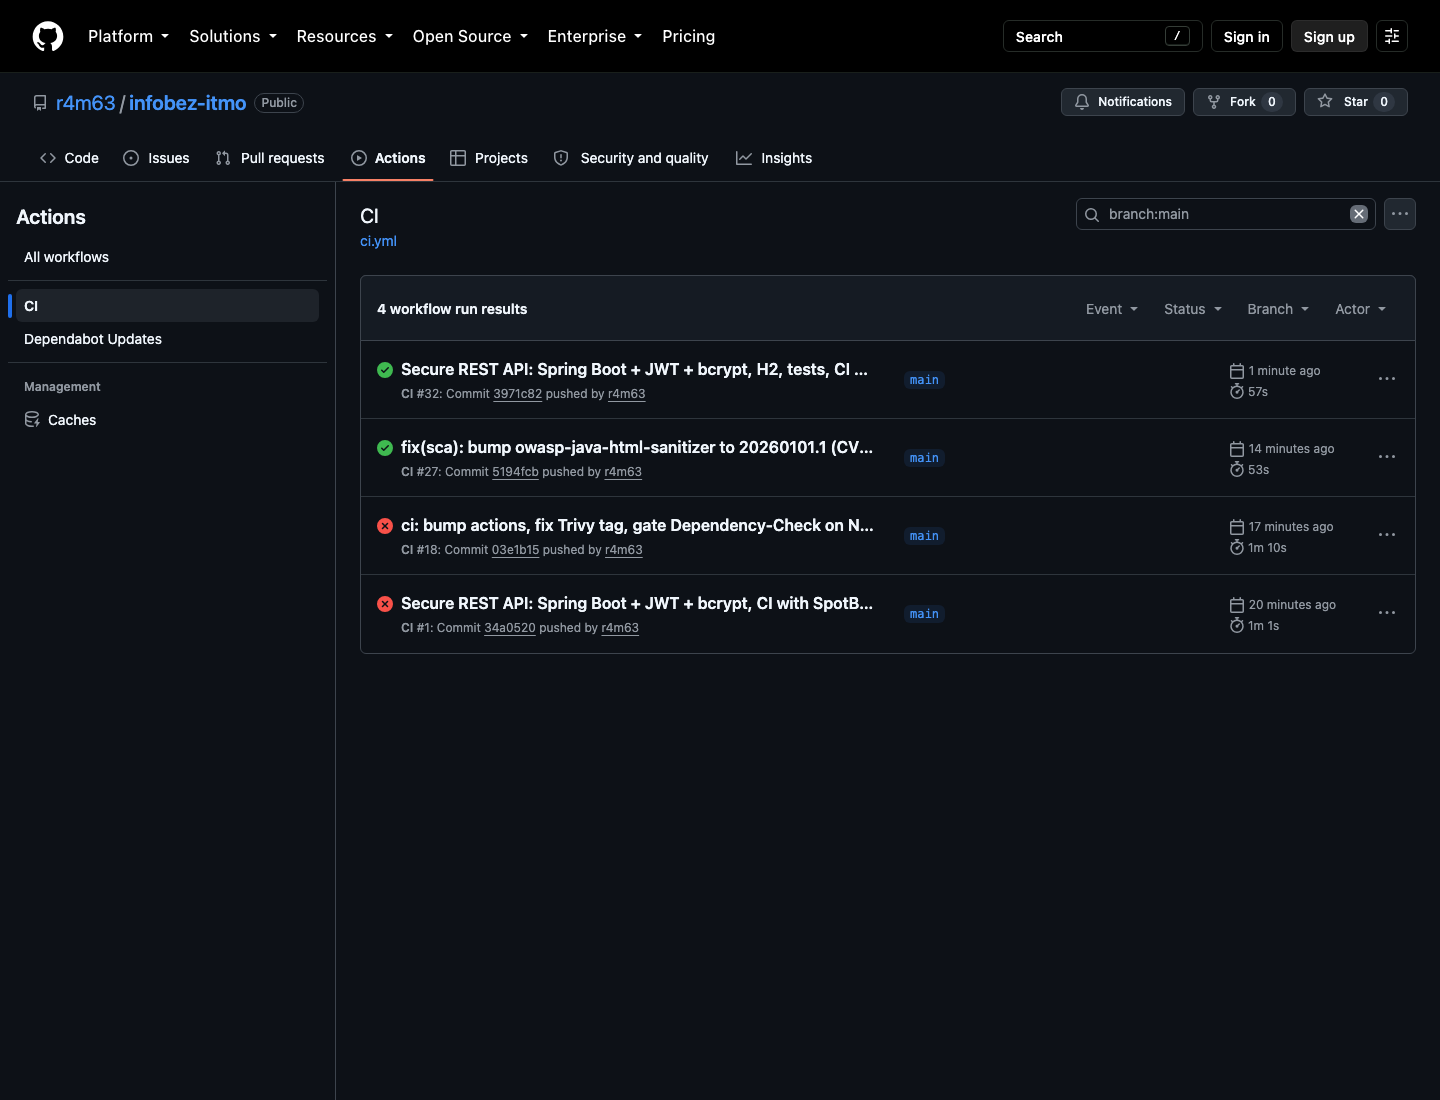
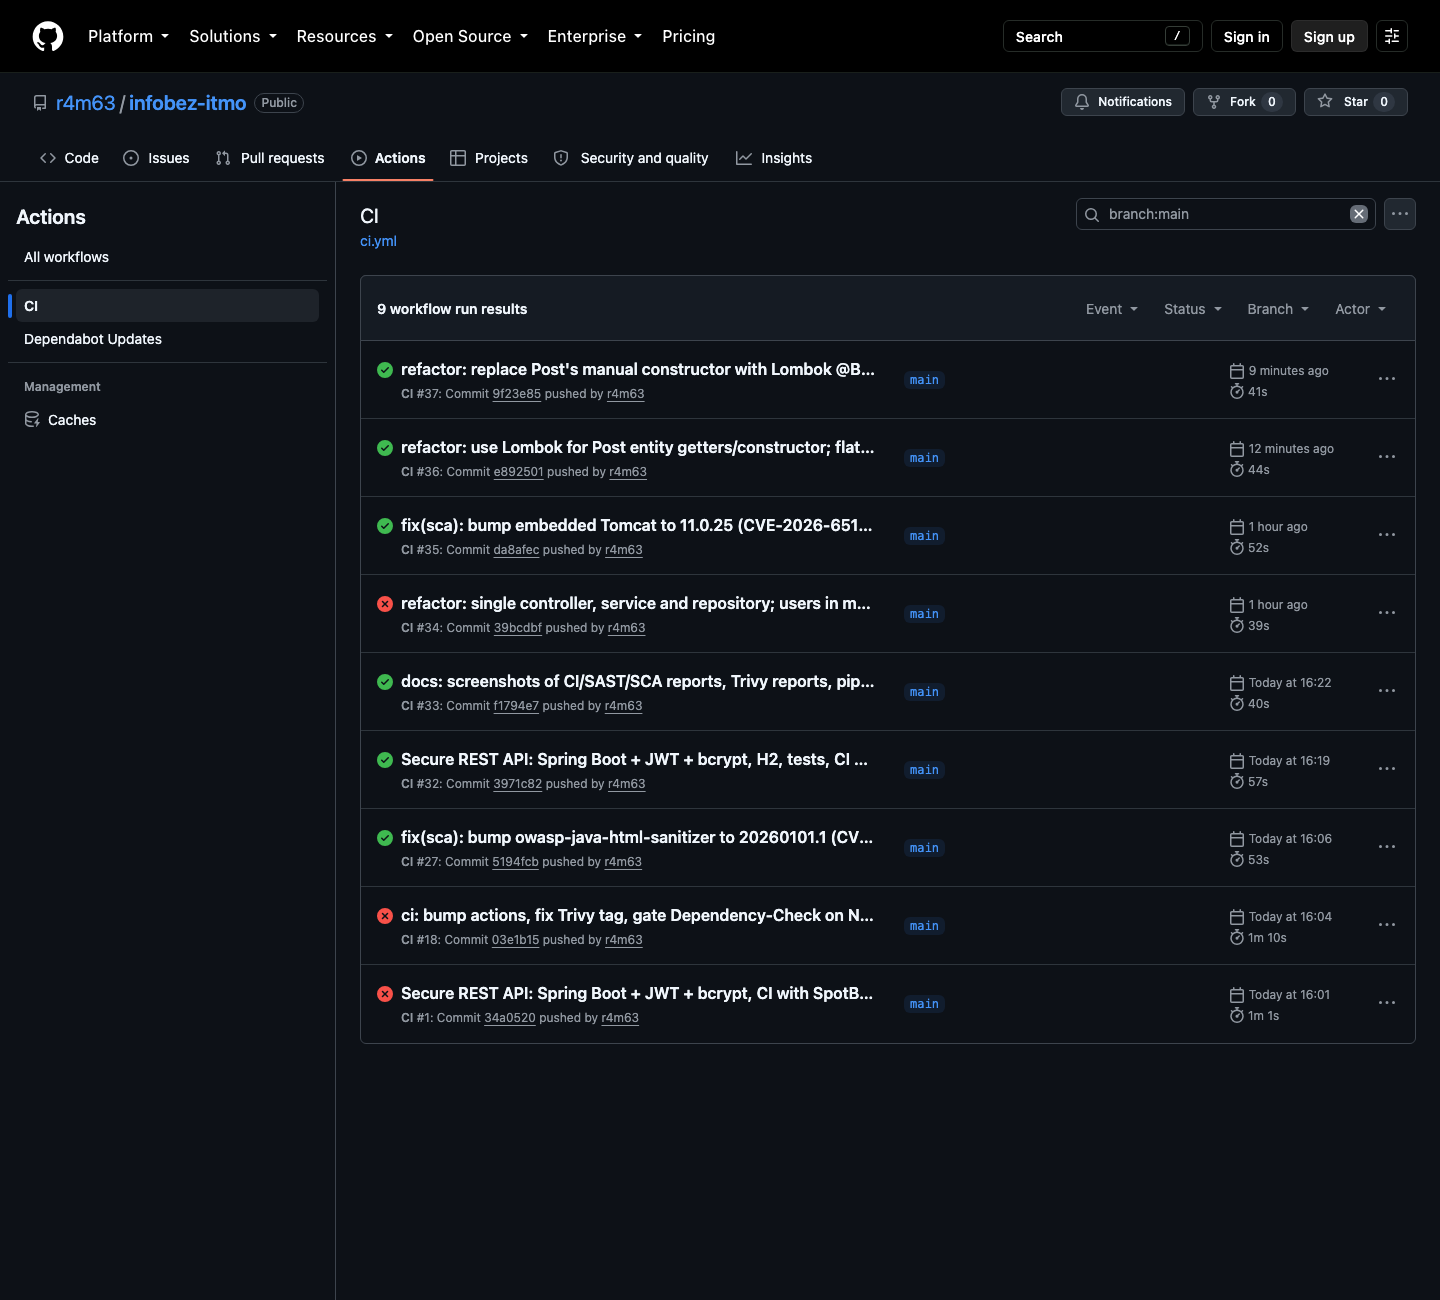
docs: refresh curl session and CI/SAST screenshots against current code

diff --git a/README.md b/README.md
@@ -5,20 +5,21 @@ bcrypt-хешированием паролей, защитой от SQL-инъе
 
 - Репозиторий: <https://github.com/r4m63/infobez-itmo>
 - Pipeline: <https://github.com/r4m63/infobez-itmo/actions/workflows/ci.yml>
-- Последний успешный запуск pipeline: <https://github.com/r4m63/infobez-itmo/actions/runs/35101196952>
-- Все успешные запуски на `main`: <https://github.com/r4m63/infobez-itmo/actions/workflows/ci.yml?query=branch%3Amain+is%3Asuccess>
+- Последний успешный запуск pipeline: <https://github.com/r4m63/infobez-itmo/actions/runs/35107799931>
+- Все успешные запуски на
+  `main`: <https://github.com/r4m63/infobez-itmo/actions/workflows/ci.yml?query=branch%3Amain+is%3Asuccess>
 
 ## Стек
 
-| Компонент | Выбор |
-|---|---|
-| Язык / фреймворк | Java 25, Spring Boot 4.1.1 (Web, Security, Data JPA, Validation) |
-| Сборка | Maven (`./mvnw`) |
-| БД | Посты — H2 in-memory через JPA/Hibernate; пользователи — массив в памяти (`InMemoryUserDetailsManager`). Docker не нужен |
-| JWT | Nimbus JOSE+JWT (`JwtEncoder`/`JwtDecoder` из Spring Security), HS256 |
-| Пароли | bcrypt, cost 12 (`BCryptPasswordEncoder`) |
-| SAST | SpotBugs + Find Security Bugs |
-| SCA | OWASP Dependency-Check, Trivy, Dependabot |
+| Компонент        | Выбор                                                                                                                    |
+|------------------|--------------------------------------------------------------------------------------------------------------------------|
+| Язык / фреймворк | Java 25, Spring Boot 4.1.1 (Web, Security, Data JPA, Validation)                                                         |
+| Сборка           | Maven (`./mvnw`)                                                                                                         |
+| БД               | Посты — H2 in-memory через JPA/Hibernate; пользователи — массив в памяти (`InMemoryUserDetailsManager`). Docker не нужен |
+| JWT              | Nimbus JOSE+JWT (`JwtEncoder`/`JwtDecoder` из Spring Security), HS256                                                    |
+| Пароли           | bcrypt, cost 12 (`BCryptPasswordEncoder`)                                                                                |
+| SAST             | SpotBugs + Find Security Bugs                                                                                            |
+| SCA              | OWASP Dependency-Check, Trivy, Dependabot                                                                                |
 
 ## Запуск
 
@@ -31,17 +32,18 @@ set -a && source .env && set +a
 При старте создаются пользователи `admin` и `user` с паролями из `DEMO_ADMIN_PASSWORD` / `DEMO_USER_PASSWORD`
 (хранятся только bcrypt-хеши). Тесты: `./mvnw verify`.
 
-Код намеренно простой: **один контроллер** ([ApiController](src/main/java/com/itmo/infobezitmo/controller/ApiController.java)),
+Код намеренно простой: **один контроллер
+** ([ApiController](src/main/java/com/itmo/infobezitmo/controller/ApiController.java)),
 **один сервис** ([ApiService](src/main/java/com/itmo/infobezitmo/service/ApiService.java)) и
 **один репозиторий** ([PostRepository](src/main/java/com/itmo/infobezitmo/repository/PostRepository.java)).
 
 ## API
 
-| Метод | Путь | Доступ | Описание |
-|---|---|---|---|
-| `POST` | `/auth/login` | публичный | Принимает `{"username","password"}`, возвращает JWT |
-| `GET` | `/api/data` | JWT | Список постов, необязательный поиск `?query=` по заголовку |
-| `POST` | `/api/posts` | JWT | Создание поста; автор берётся из токена |
+| Метод  | Путь          | Доступ    | Описание                                                   |
+|--------|---------------|-----------|------------------------------------------------------------|
+| `POST` | `/auth/login` | публичный | Принимает `{"username","password"}`, возвращает JWT        |
+| `GET`  | `/api/data`   | JWT       | Список постов, необязательный поиск `?query=` по заголовку |
+| `POST` | `/api/posts`  | JWT       | Создание поста; автор берётся из токена                    |
 
 ### Примеры (curl)
 
@@ -65,10 +67,19 @@ curl -X POST localhost:8080/api/posts \
 
 ```json
 // POST /auth/login -> 200
-{"accessToken":"eyJhbGciOiJIUzI1NiJ9...","tokenType":"Bearer","expiresIn":900}
+{
+  "accessToken": "eyJhbGciOiJIUzI1NiJ9...",
+  "tokenType": "Bearer",
+  "expiresIn": 900
+}
 // GET /api/data без токена -> 401
 // POST /auth/login с неверным паролем -> 401
-{"detail":"Invalid username or password","instance":"/auth/login","status":401,"title":"Unauthorized"}
+{
+  "detail": "Invalid username or password",
+  "instance": "/auth/login",
+  "status": 401,
+  "title": "Unauthorized"
+}
 ```
 
 Полный протокол проверки через curl (без токена, неверный пароль, логин, данные, XSS- и SQLi-нагрузки,
@@ -133,12 +144,12 @@ Spring Data JPA / Hibernate:
 Файл: [.github/workflows/ci.yml](.github/workflows/ci.yml). Запускается при каждом `push`, `pull_request`
 и вручную. Четыре независимых job:
 
-| Job | Тип | Инструмент | Что делает |
-|---|---|---|---|
-| Build & tests | — | Maven, JUnit | `./mvnw verify`: сборка и 10 интеграционных тестов безопасности |
-| SAST | SAST | SpotBugs + Find Security Bugs | Статический анализ байткода (effort Max, threshold Medium); job падает при любой находке. Отчёт `spotbugs.html` в артефактах |
-| SCA — Dependency-Check | SCA | OWASP Dependency-Check | Поиск CVE в зависимостях, `failBuildOnCVSS=7`; HTML/JSON-отчёт в артефактах. Требует секрет `NVD_API_KEY` (без него NVD API с GitHub-раннеров не отвечает, шаг пропускается с предупреждением) |
-| SCA — Trivy | SCA | Trivy | Сканирует `pom.xml` на HIGH/CRITICAL CVE, а также секреты и мисконфигурации; отчёт в артефактах и в Job Summary |
+| Job                    | Тип  | Инструмент                    | Что делает                                                                                                                                                                                     |
+|------------------------|------|-------------------------------|------------------------------------------------------------------------------------------------------------------------------------------------------------------------------------------------|
+| Build & tests          | —    | Maven, JUnit                  | `./mvnw verify`: сборка и 10 интеграционных тестов безопасности                                                                                                                                |
+| SAST                   | SAST | SpotBugs + Find Security Bugs | Статический анализ байткода (effort Max, threshold Medium); job падает при любой находке. Отчёт `spotbugs.html` в артефактах                                                                   |
+| SCA — Dependency-Check | SCA  | OWASP Dependency-Check        | Поиск CVE в зависимостях, `failBuildOnCVSS=7`; HTML/JSON-отчёт в артефактах. Требует секрет `NVD_API_KEY` (без него NVD API с GitHub-раннеров не отвечает, шаг пропускается с предупреждением) |
+| SCA — Trivy            | SCA  | Trivy                         | Сканирует `pom.xml` на HIGH/CRITICAL CVE, а также секреты и мисконфигурации; отчёт в артефактах и в Job Summary                                                                                |
 
 Дополнительно включён Dependabot ([.github/dependabot.yml](.github/dependabot.yml)) — еженедельные PR с
 обновлениями зависимостей Maven и GitHub Actions.
@@ -168,7 +179,7 @@ Total: 1 (HIGH: 1, CRITICAL: 0)
 ```
 
 Отчёт Trivy в текущем успешном запуске
-([#32](https://github.com/r4m63/infobez-itmo/actions/runs/35101196952)):
+([#37](https://github.com/r4m63/infobez-itmo/actions/runs/35107799931)):
 
 ```
 Report Summary
